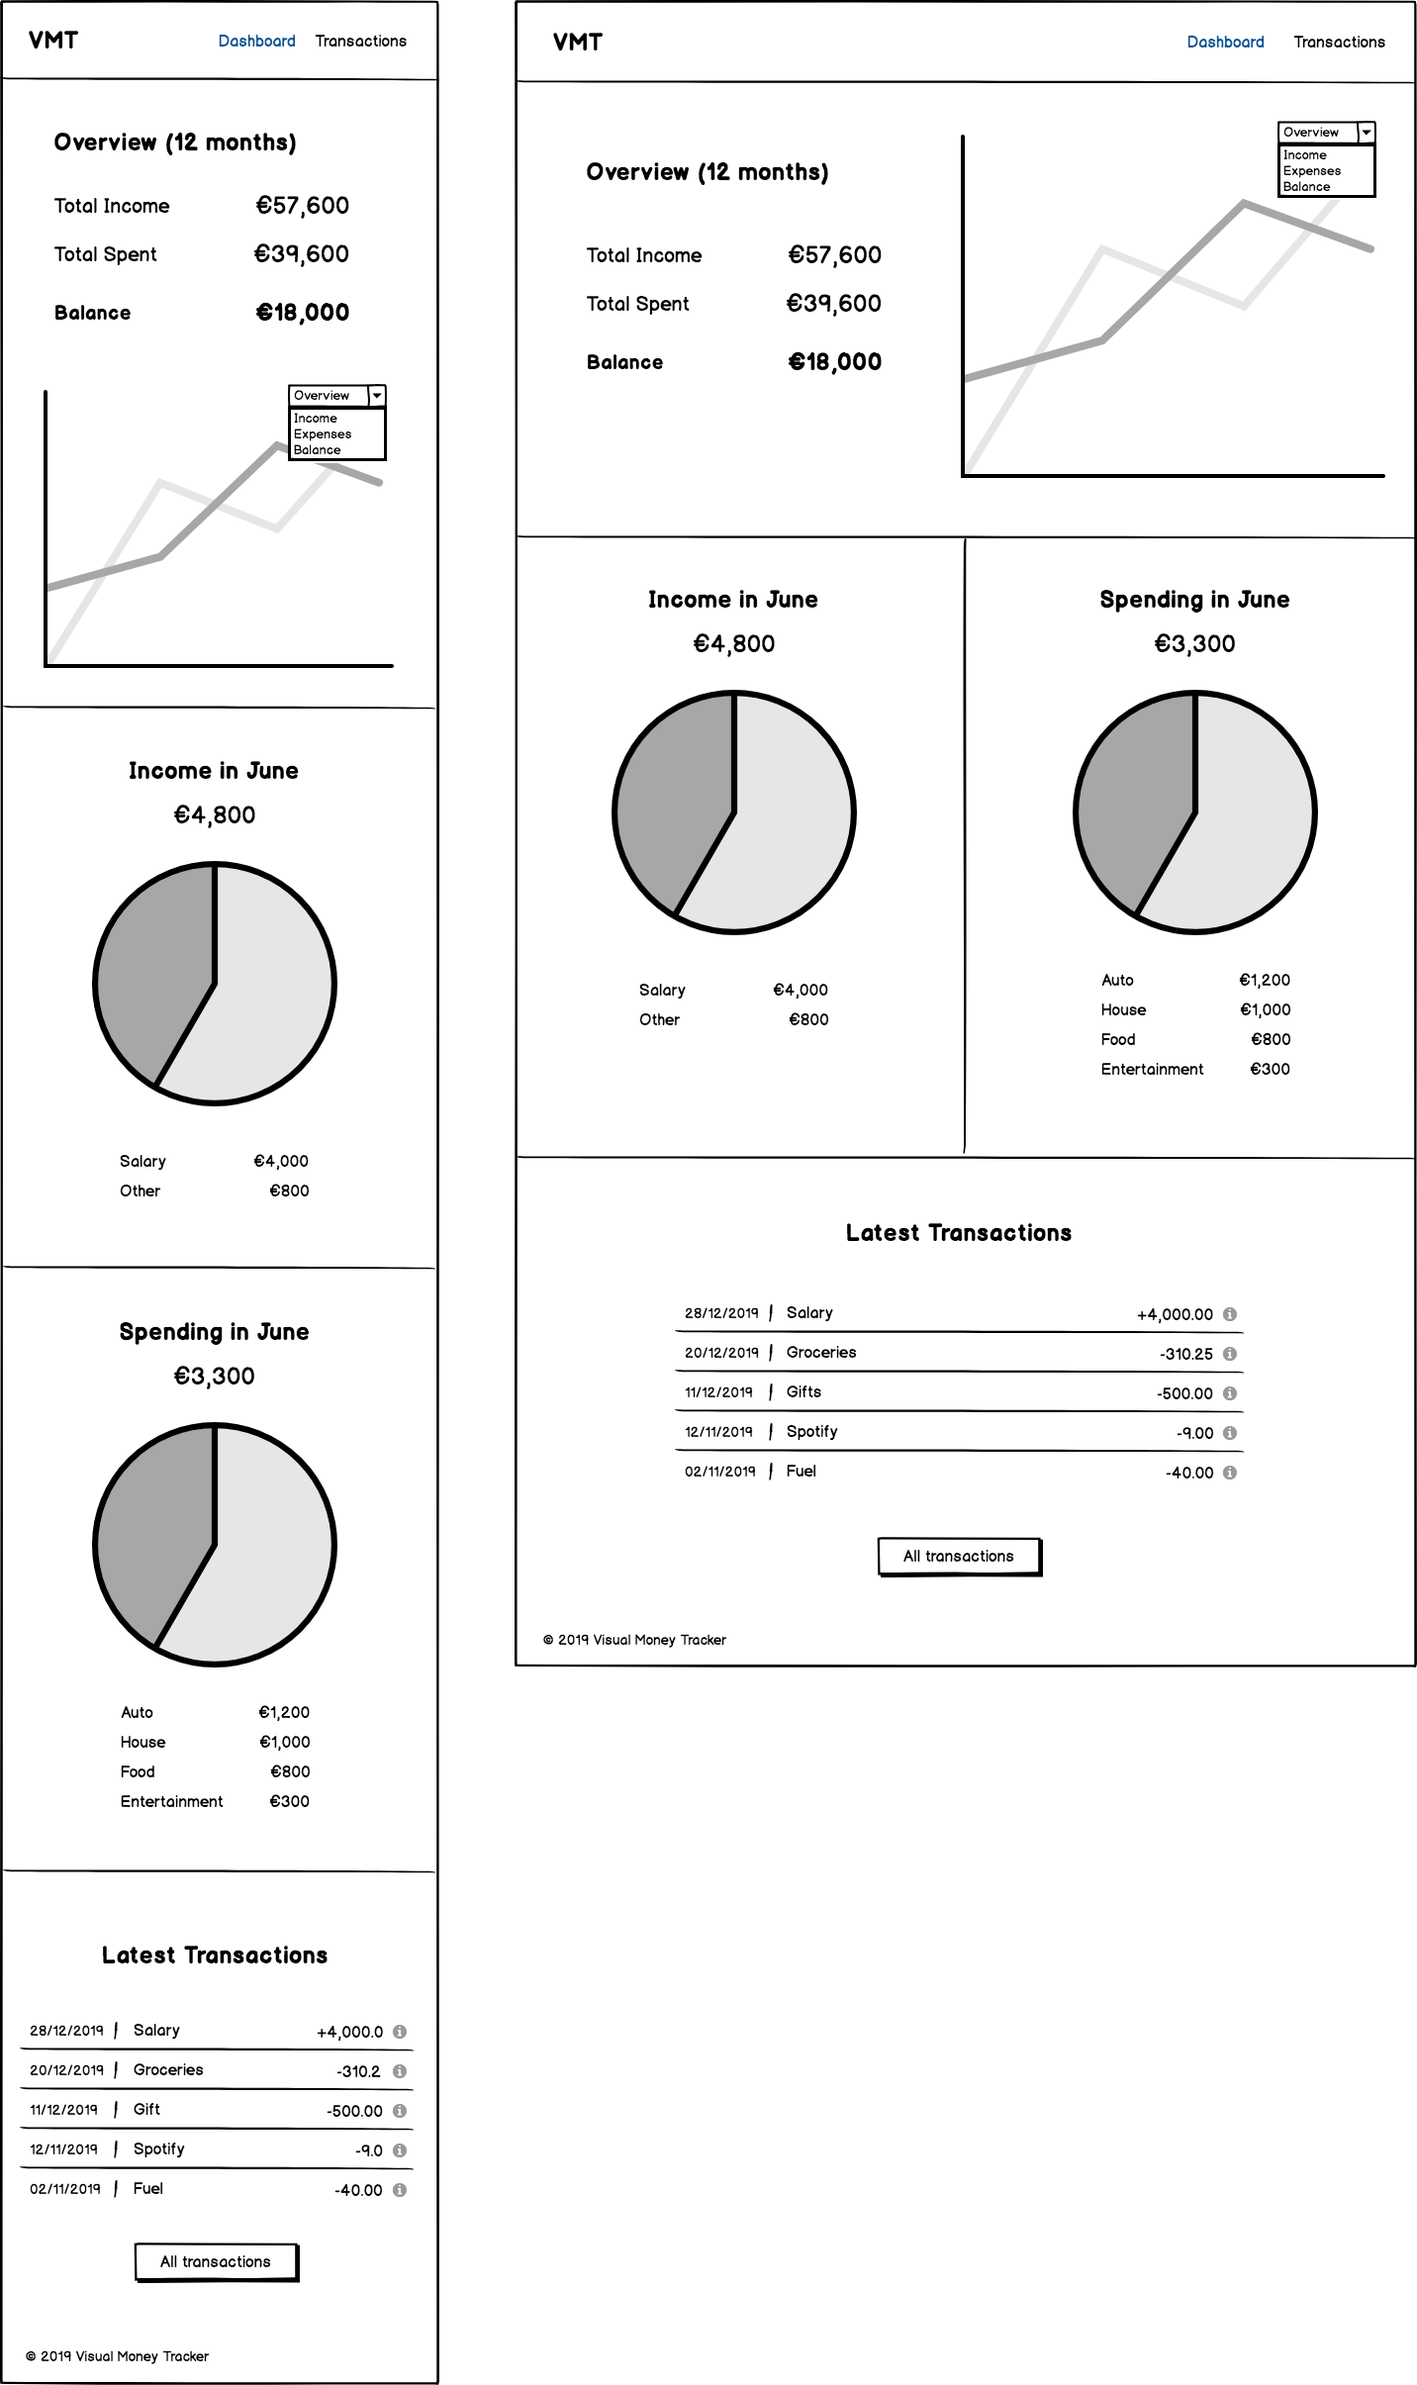
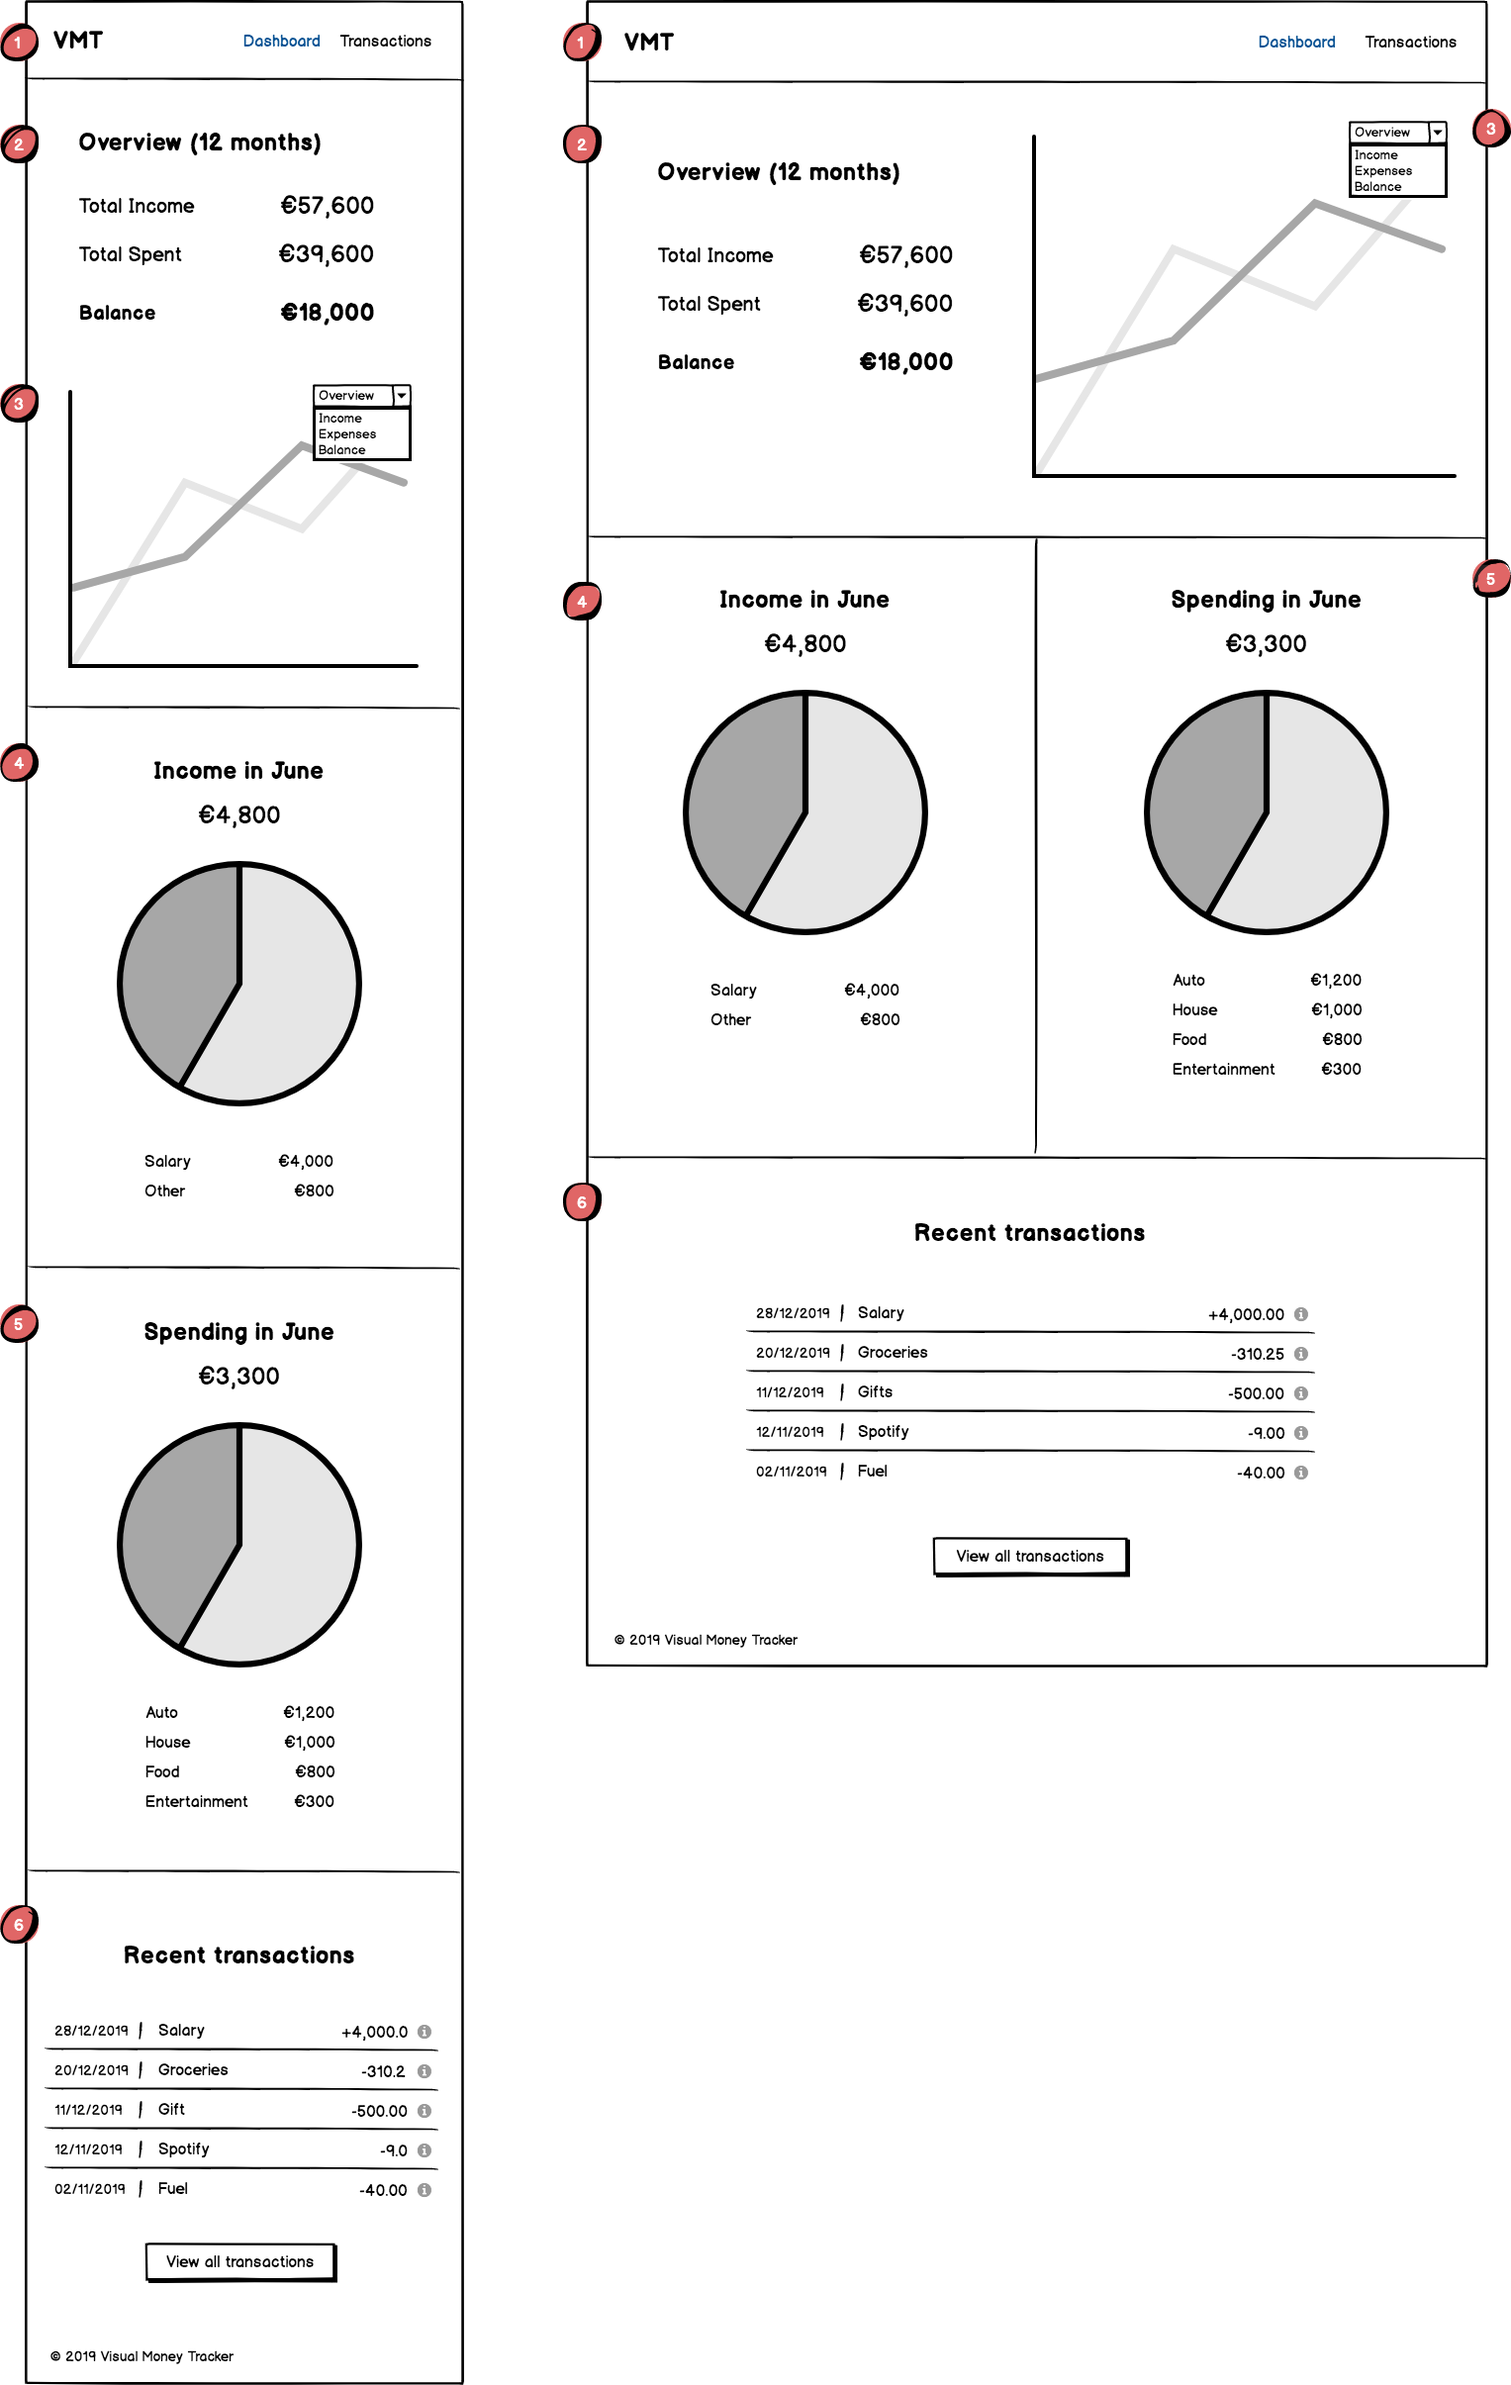
edit user stories and include number references to wireframe

diff --git a/README.md b/README.md
@@ -12,8 +12,10 @@ To learn more about the needs of the user, please read the [Project Brief](ux/Pr
 
 #### Objectives
 
-- See a better overview of personal finances.
-- Help to reduce spending and increase saving.
+- Display a breakdown of totals
+- Compare income vs spending
+- Sort the transactions
+- Calculate and display the balance
 
 ### Users
 
@@ -23,79 +25,109 @@ To learn more about the needs of the user, please read the [Project Brief](ux/Pr
 
 ---
 
-**_"As a user, I want to see my transactions in one place, so that, I can see my income, spending and balance at once."_**
+**_(1) - "As a user, I want to navigate around the app, so that, I can access the sections I need."_**
 
-- As a user, I want to see my transactions in one place, so that, I can see all information at once.
-  - [x] Create a layout template for the dashboard.
-  - [x] Import data from CSV via D3.js API.
-  - [ ] Add DC.js charts interlinking.
-  - [ ] Format currency in Euros.
+- As a user, I want to navigate to main page, so that, I can see the dashboard.
+  - [x] Add logo with hyperlink to home page.
+  - [x] Add menu hyperlink to home page.
+- As a user, I want to navigate to transactions page, so that, I can see the list of transactions.
+  - [x] Add menu hyperlink to transactions page.
 
 ---
 
-**_"As a user, I want to see my total amounts, so that, I can see my income, spending and balance."_**
+**_(2) - "As a user, I want to see a breakdown of transactions, so that, I can see total income, spending and balance at once."_**
 
+- As a user, I want to see the section title, so that, I know the overview timeframe.
+  - [x] Add section heading.
 - As a user, I want to see my income total, so that, I can see how much I earned.
-  - [ ] Create a function to calculate income total.
-  - [ ] Output 12 months income total value in 'Overview' section.
-- As a user, I want to see my expanses total, so that, I can see how much I spent.
-  - [ ] Create a function to calculate spending total.
-  - [ ] Output 12 months spending total value in 'Overview' section.
+  - [x] Add item name.
+  - [ ] Calculate 12 months income total.
+  - [ ] Output value in Euros.
+- As a user, I want to see my spending total, so that, I can see how much I spent.
+  - [x] Add item name.
+  - [ ] Calculate and output total spending for 12 months.
+  - [ ] Output value in Euros.
 - As a user, I want to see my balance, so that, I can see how much I have.
-  - [ ] Create a function to calculate the balance.
-  - [ ] Output 12 months balance value in 'Overview' section.
+  - [x] Add item name.
+  - [ ] Calculate 12 months balance and output value in euros.
+  - [ ] Output value in Euros.
 
 ---
 
-**_"As a user, I want to see my transactions data visually, so that, I can see my income, spending and balance over the period of 12 months."_**
+**_(3) - "As a user, I want to see my transactions data visually, so that, I can compare my income, spending and balance over the period of 12 months."_**
 
 - As a user, I want to see my income visually, so that, I know how much I earned over the year.
-  - [ ] Display the data as a line chart with data points for each month.
-  - [ ] Green colour scheme.
+  - [ ] Load income data from CSV file.
+  - [ ] Calculate monthly total.
+  - [ ] Display a line chart with data points for each month.
+  - [ ] Make the line green.
 - As a user, I want to see my spending visually, so that, I know how much I spent over the year.
-  - [ ] Display the data as a line chart with data points for each month.
-  - [ ] Red colour scheme.
+  - [ ] Load spending data from CSV file.
+  - [ ] Calculate monthly total.
+  - [ ] Display a line chart with data points for each month.
+  - [ ] Make the line red.
 - As a user, I want to see my balance visually, so that, I know how my balance changed over the year.
-  - [ ] Display the data as a line chart with data points for each month.
-  - [ ] Blue colour scheme.
+  - [ ] Load balance data from CSV file.
+  - [ ] Calculate monthly total.
+  - [ ] Display a line chart with data points for each month.
+  - [ ] Make the line blue.
+- As a user, I want choose what data to display, so that, I can personalise my experience.
+  - [ ] Create a chart data selector.
 
 ---
 
-**_"As a user, I want to see a visual chart for my income only, so that, I can see my earnings in more detail."_**
+**_(4) - "As a user, I want to view my income breakdown, so that, I can see current month earnings in more detail."_**
 
-- As a user, I want to see my income as a chart, so that, I can see what percentage comes from each source.
-  - [ ] Display the data as a pie chart split into categories for each income source.
-  - [ ] Display a percentage value.
-  - [ ] Multi colour scheme with shades.
+- As a user, I want to see my income total for the current month, so that, I know how much I've earned this month.
+  - [ ] Add section heading.
+  - [ ] Calculate income total for the current month.
+  - [ ] Output value in Euros.
+- As a user, I want to see my income as chart, so that, I know what percentage I've received from each source.
+  - [ ] Display a pie chart with percentage values for each income source.
+- As a user, I want to see an income source breakdown, so that, I can see each item in more detail.
+  - [ ] Display item breakdown for each income category.
 
 ---
 
-**_"As a user, I want to see a visual chart for my spending only, so that, I can see how much I spend in more detail."_**
+**_(5) - "As a user, I want to view my spending breakdown, so that, I can see current month spending in more detail."_**
 
 - As a user, I want to see my spending as chart, so that, I can see what percentage goes to each spending category.
-  - [ ] Display the data as a pie chart split into categories for each spending category.
-  - [ ] Display a percentage value.
-  - [ ] Multi colour scheme with shades.
+  - [ ] Add section heading.
+  - [ ] Calculate spending total for the current month.
+  - [ ] Output value in Euros.
+ - As a user, I want to see my spending as chart, so that, I know what percentage I've spent in each category.
+     - [ ] Display a pie chart with percentage values for each spending category.
+- As a user, I want to see an income source breakdown, so that, I can see each item in more detail.
+  - [ ] Display item breakdown for each spending category.
 
 ---
 
-**_"As a user, I want easy access to a complete transactions list, so that, I can see all of my transactions."_**
+**_(6) - "As a user, I want to see my recent transactions, so that, I know where I spent my money lately."_**
 
-- As a user, I want to see a full list of transactions, so that, I can see all details.
-  - [x] Display a table with all transactions.
-  - [ ] ~~Filter by month.~~
-  - [ ] ~~View individual transaction.~~
+- As a user, I want to view recent transactions, so that, I can see my latest income and spending.
+  - [x] Load 5 recent transactions from CSV file.
+  - [x] Output transactions data as a date, payee and amount.
+  - [x] Sort transactions in descending order.
+- As a user, I want to access all transactions, so that, I can see my all transactions.
+  - [ ] Add 'View all transactions' button.
+
+---
+
+**_(7) - "As a user, I want to see a complete list of transactions, so that, I can see all of my income and spending."_**
+
+- As a user, I want to see a complete list of transactions, so that, I can see all items at once.
+  - [x] Load all transactions from CSV file.
+  - [x] Output transactions data as a date, payee and amount.
+  - [x] Sort transactions in descending order.
+  - [ ] Filter data by each month or full year.
 
 ---
 
-**_"As a user, I want to see my recent transactions, so that, I can know where I spent my money lately."_**
-
-- As a user, I want to see my recent transactions, so that, I can know where I spent my money lately.
-  - [x] Create a function to output 5 recent transactions.
-  - [x] Display a table with transactions.
-  - [ ] Access to all transaction link.
+**_(8) - "As a user, I want to view individual transaction, so that, I can see the details for each item."_**
+_Feature Request!_
 
 ---
+
 
 ## Features
 
@@ -107,13 +139,14 @@ To learn more about the needs of the user, please read the [Project Brief](ux/Pr
 
 _Features to be implemented in the future:_
 
+- Filter recent transaction based on chart selection
 - View an individual transaction
 - Add new transaction
 - Edit current transaction
 
 ## Structure
 
-<u>_The Mindmap_</u>
+_The Mindmap_
 
 ![alt text](ux/Wireframes/Mindmap.png)
 
@@ -121,11 +154,11 @@ _Features to be implemented in the future:_
 
 #### Wireframes
 
-<u>_Dashboard view_</u>
+_Dashboard view_
 
 ![alt text](ux/Wireframes/Dashboard.png)
 
-<u>_Transactions view_</u>
+_Transactions view_
 
 ![alt text](ux/Wireframes/Transactions.png)
 
